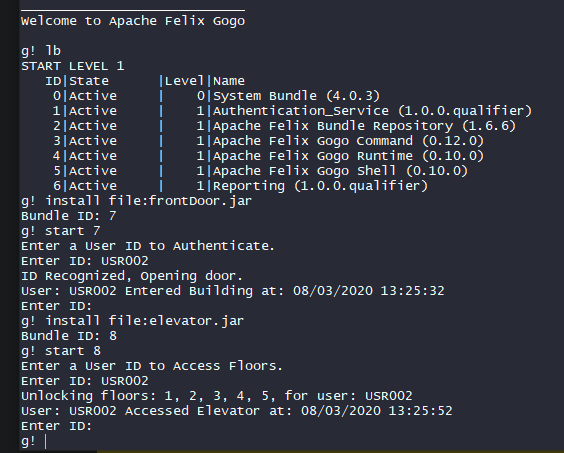
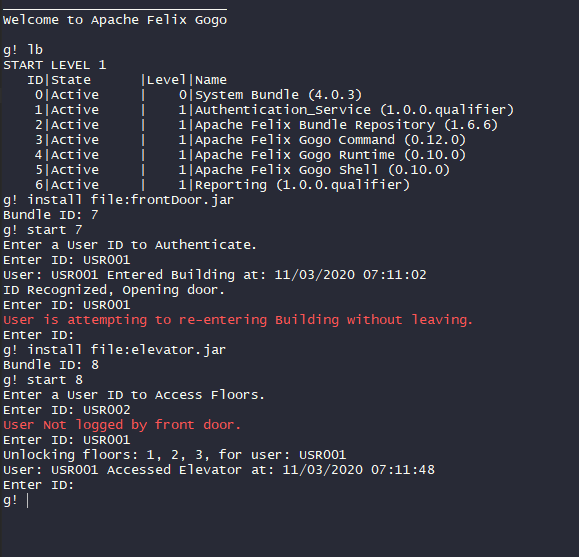
Added Security Warning Messages

Changed region(s): [[0.0, 0.0, 1.0, 1.0], [0.4823, 0.4636, 0.7234, 0.5254], [0.5124, 0.6181, 0.7837, 0.649]]

diff --git a/Elevator Service/src/elevator_service/Activator.java b/Elevator Service/src/elevator_service/Activator.java
@@ -36,6 +36,7 @@ public class Activator implements BundleActivator
         report_tracker = new ServiceTracker<>(m_context,ReportingService.class.getName(),null);
         
         auth_tracker.open();
+        report_tracker.open();
         
 
         try
@@ -51,6 +52,7 @@ public class Activator implements BundleActivator
                 userID = in.readLine();
 
                 AuthenticationService authenticate = (AuthenticationService) m_context.getService(auth_tracker.getServiceReference());
+                ReportingService report = (ReportingService) m_context.getService(report_tracker.getServiceReference());
                 
                 // If the user entered a blank line, then
                 // exit the loop.
@@ -59,7 +61,7 @@ public class Activator implements BundleActivator
                     break;
                 }
                 else if (authenticate != null)
-                {
+                {                	
                 	List<Integer> authorizedFloors = authenticate.getAccessableFloors(userID);
                 	
                 	if(authorizedFloors == null)
@@ -69,6 +71,14 @@ public class Activator implements BundleActivator
                 	}
                 	else
                 	{
+                    	if(!report.isInsideBuilding(userID))
+                    	{
+                    		//This User did not enter through the front door.
+                    		authenticate.securityAlert("User Not logged by front door.");
+                    		continue;
+                    	}
+                		
+                		
 	                	System.out.print("Unlocking floors:");
 	                	for(int floor : authorizedFloors)
 	                	{
@@ -76,8 +86,7 @@ public class Activator implements BundleActivator
 	                	}
 	                	System.out.println(" for user: "+userID);
 	                	
-	                	report_tracker.open();
-	                    ReportingService report = (ReportingService) m_context.getService(report_tracker.getServiceReference());
+
 	                    report.logElevatorAccess(userID);
                 	}
                 }

diff --git a/Front Door/src/front_door/Activator.java b/Front Door/src/front_door/Activator.java
@@ -65,15 +65,18 @@ public class Activator implements BundleActivator
                 // Otherwise print whether the word is correct or not.
                 else if (authenticate.checkUserID(userID))
                 {
-                    System.out.println("ID Recognized, Opening door.");
+              
                     report_tracker.open();
                     ReportingService report = (ReportingService) m_context.getService(report_tracker.getServiceReference());
                     
                     //If this returns false we have a Security Issue
                     if(!report.logUserID(userID))
                     {
-                    	//TODO: Send Security Alert
+                    	authenticate.securityAlert("User is attempting to re-entering Building without leaving.");
+                    	continue;
                     }
+                    System.out.println("ID Recognized, Opening door.");
+                    
                     
                     
                 }

diff --git a/Authentication Service/src/authentication_service/AuthenticationServiceImpl.java b/Authentication Service/src/authentication_service/AuthenticationServiceImpl.java
@@ -6,6 +6,12 @@ import java.util.List;
 
 public class AuthenticationServiceImpl implements AuthenticationService
 {
+	
+	public final String ANSI_RED = "\u001B[31m";
+	public static final String ANSI_RESET = "\u001B[0m";
+	
+	
+	
 	@SuppressWarnings("serial")
 	HashMap<String, List<Integer>> usersAndAccessableFloors = new HashMap< String, List<Integer> >()
 	{{
@@ -41,6 +47,16 @@ public class AuthenticationServiceImpl implements AuthenticationService
 	public List<Integer> getAccessableFloors(String userID) 
 	{
 		return usersAndAccessableFloors.get(userID);	
+	}
+	
+	
+	/**
+	 * Output Alert messages if security violations are detected
+	 * @param msg the message to output
+	 */
+	public void securityAlert(String msg)
+	{
+		System.out.println(ANSI_RED + msg + ANSI_RESET);
 	}
 	
 	

diff --git a/Reporting/src/reporting_service/ReportingServiceImpl.java b/Reporting/src/reporting_service/ReportingServiceImpl.java
@@ -89,5 +89,35 @@ public class ReportingServiceImpl implements ReportingService
 	}
 	
 	
+	/**
+	 * Check if someone has entered the Building through the front door
+	 * @param userID the userID to check
+	 * @return true if they came through the front door
+	 */
+	@Override
+	public boolean isInsideBuilding(String userID)
+	{
+		if(peopleInsideTheBuilding.containsKey(userID))
+		{
+			return true;
+		}
+		return false;		
+	}
+	
+	
+	
+	
+	
+	
+	
+	
+	
+	
+	
+	
+	
+	
+	
+	
 
 }

diff --git a/Reporting/src/reporting_service/ReportingService.java b/Reporting/src/reporting_service/ReportingService.java
@@ -6,4 +6,5 @@ public interface ReportingService
 	public boolean logUserID(String userID);
 	public boolean removeUserID(String userID);
 	public void logElevatorAccess(String userID);
+	public boolean isInsideBuilding(String userID);
 }

diff --git a/Authentication Service/src/authentication_service/AuthenticationService.java b/Authentication Service/src/authentication_service/AuthenticationService.java
@@ -7,5 +7,6 @@ public interface AuthenticationService
 	
 	public boolean checkUserID(String userID);
 	public List<Integer> getAccessableFloors(String userID);
+	public void securityAlert(String msg);
 
 }
